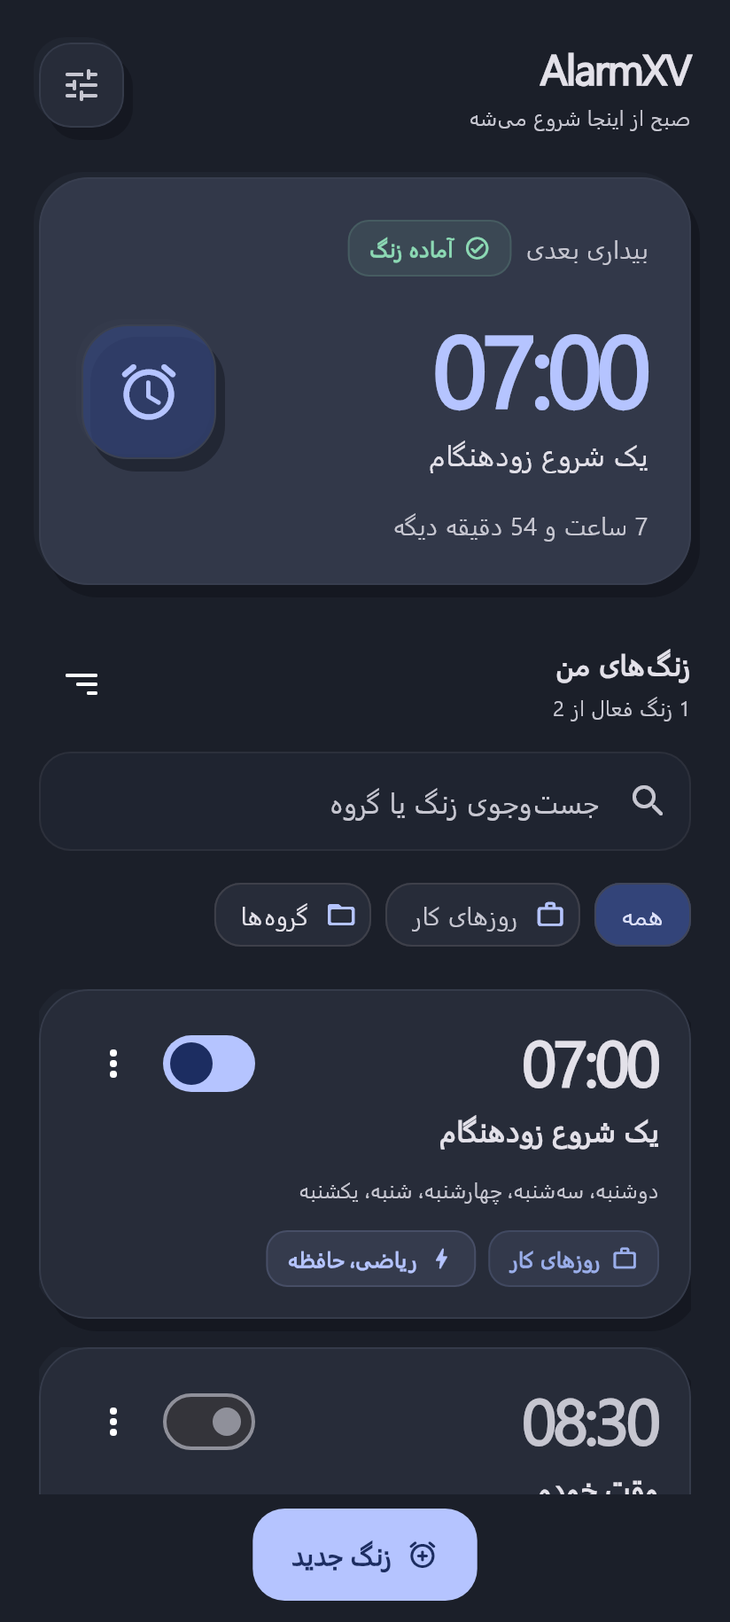
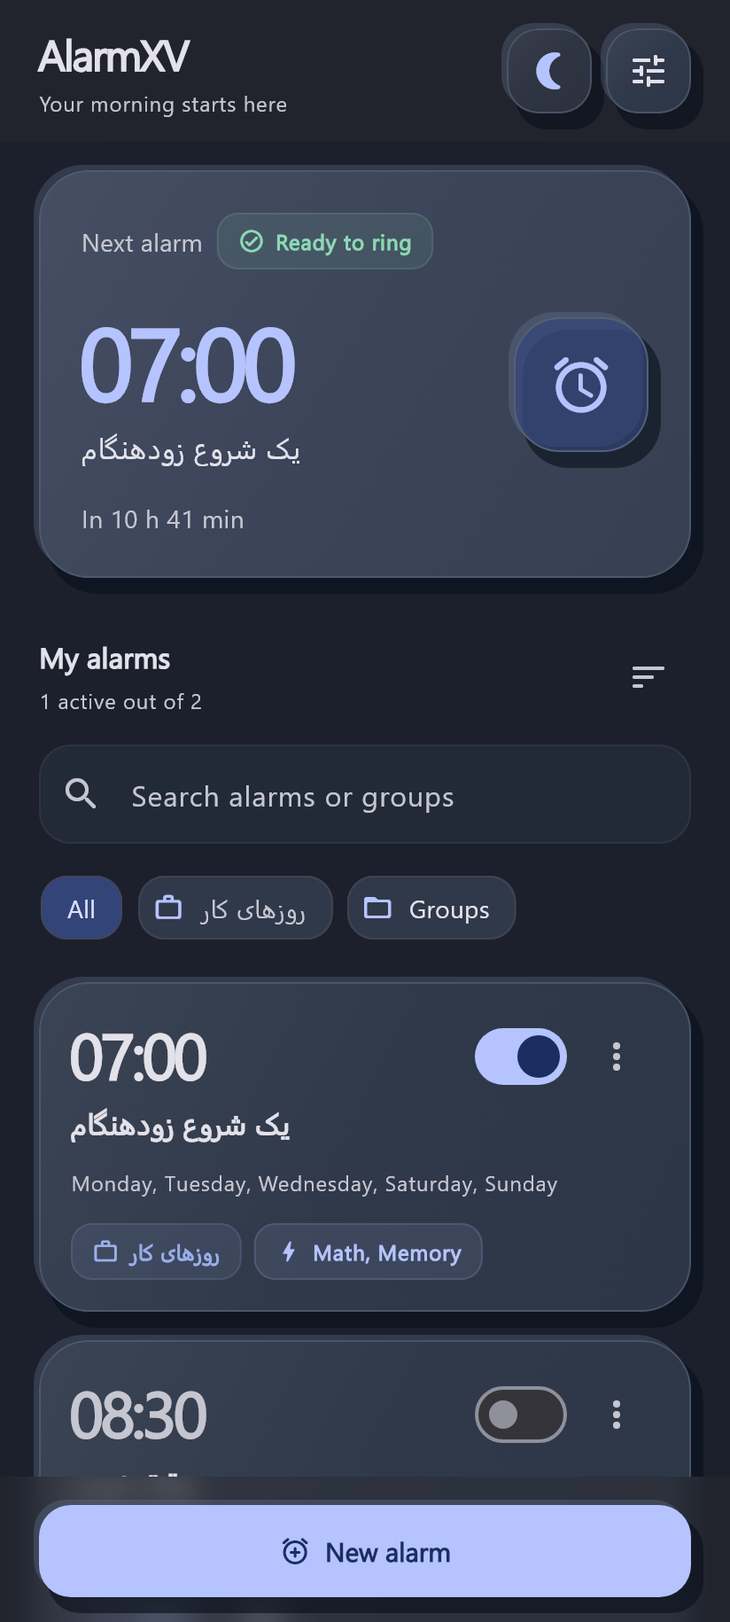
docs: prepare bilingual public preview release and refreshed project homepage

diff --git a/README.md b/README.md
@@ -1,97 +1,104 @@
 <div align="center">
 
+<img src="android/app/src/main/res/mipmap-xxxhdpi/ic_launcher.png" width="88" alt="AlarmXV" />
+
 # AlarmXV
 
-### A better morning starts with actually waking up.
-### صبح خوب، با واقعاً بیدارشدن شروع میشود.
+### صبح از اینجا شروع میشه · Your morning starts here
 
-An Android alarm clock for heavy sleepers — local alarms, wake-up missions, and a little persistence.
+An open-source Android alarm clock with wake-up missions, Clay surfaces and Persian/English support.
 
-[Download / دانلود](https://github.com/bardia-us/AlarmXV/releases/latest) · [What’s new / تغییرات](CHANGELOG.md) · [Report a bug / گزارش مشکل](https://github.com/bardia-us/AlarmXV/issues)
+[**Download preview · دانلود پیشنمایش**](https://github.com/bardia-us/AlarmXV/releases/tag/v2.0.0-preview.3) · [Stable 1.2.0](https://github.com/bardia-us/AlarmXV/releases/latest) · [Changelog](CHANGELOG.md) · [Issues](https://github.com/bardia-us/AlarmXV/issues)
+
+**2.0.0-preview.3** · Flutter + Kotlin · Android · [GPL-3.0](LICENSE)
+
+<img src="docs/alarmxv-light.png" width="240" alt="Persian alarm list in light mode" />
+&nbsp;
+<img src="docs/alarmxv-dark.png" width="240" alt="English alarm list in dark mode" />
+
+<sub>Sample alarms · زنگهای نمونه؛ اطلاعات واقعی کاربران نیست</sub>
 
 </div>
 
-<div align="center">
-<img src="docs/alarmxv-light.png" width="230" alt="AlarmXV preview in light mode" />
-&nbsp;&nbsp;
-<img src="docs/alarmxv-dark.png" width="230" alt="AlarmXV preview in dark mode" />
-<p><sub>Design preview · نمونهٔ زبان طراحی؛ نسخهٔ جدید هنوز منتشر نشده</sub></p>
-</div>
+## دانلود · Download
 
----
+**2.0.0-preview.3** یک پیشانتشار عمومی است. نسخهٔ پایدار فعلی **1.2.0** باقی میماند.
+
+**2.0.0-preview.3 is a public pre-release.** Version **1.2.0** remains the stable release.
+
+| APK | مناسب برای · Best for | Size |
+|---|---|---:|
+| [ARM64 · v8a](https://github.com/bardia-us/AlarmXV/releases/download/v2.0.0-preview.3/AlarmXV-2.0.0-preview.3-arm64-v8a.apk) | بیشتر گوشیهای جدید · Most modern phones | 18.1 MiB |
+| [ARMv7 · v7a](https://github.com/bardia-us/AlarmXV/releases/download/v2.0.0-preview.3/AlarmXV-2.0.0-preview.3-armeabi-v7a.apk) | گوشیهای قدیمی ۳۲ بیتی · Older 32-bit ARM phones | 15.7 MiB |
+| [Universal](https://github.com/bardia-us/AlarmXV/releases/download/v2.0.0-preview.3/AlarmXV-2.0.0-preview.3-universal.apk) | اگر مطمئن نیستی · When unsure | 52.3 MiB |
+
+[SHA256 checksums · صحت فایلها](https://github.com/bardia-us/AlarmXV/releases/download/v2.0.0-preview.3/SHA256SUMS.txt)
+
+فقط یکی از APKها را نصب کن. امضای قبلی AlarmXV حفظ شده؛ برای آپدیت نیازی به حذف برنامه نیست.
+
+Install only one APK. All files retain the existing signing identity and support installation over the previous version.
 
 ## فارسی
 
-AlarmXV برای وقتی ساخته شده که دکمهٔ خاموشکردن آلارم، زیادی راحت است. زنگ را تنظیم کن، مأموریت بیدارشدن را انتخاب کن و اگر خواستی، از بررسی بیداری کمک بگیر تا دوباره نخوابی.
+AlarmXV برای صبحهایی ساخته شده که خاموشکردن آلارم، زیادی راحته. زمان بیداری رو انتخاب کن، زنگهات رو مرتب کن و با یک زنگ عادی یا انجام مأموریت بیدار شو.
 
-### نسخهٔ منتشرشده — 1.2.0
+- **دو روش بیدارشدن:** زنگ عادی با قطع مستقیم و صدای قابل تنظیم، یا بیداری مأموریتی با ریاضی، حافظه، تکاندادن، تایپ و ترتیب اعداد.
+- **آلارمهای مرتب:** گروه با نام، رنگ و آیکون، جستوجو، تکثیر، تکرار هفتگی و شمارش زمان تا آلارم بعدی.
+- **ظاهر یکپارچه:** طراحی Clay، نوارها و منوهای Frosted، تم روشن/تیره/سیستم، هشت رنگ و دکمهٔ متحرک ماه و خورشید.
+- **دو زبان:** فارسی و انگلیسی با پیشفرض زبان سیستم و انتخاب دستی در تنظیمات؛ جهت مناسب RTL/LTR.
+- **کنترل بیداری:** صدای گوشی، Snooze، مأموریتهای قابل تنظیم و بررسی بیصدای بیداری با فرصت تأیید ۶۰ ثانیهای.
+- **محلی و متنباز:** بدون حساب کاربری؛ آلارمها روی گوشی میمونن و بررسی آپدیت فقط با درخواست خودت انجام میشه.
 
-- زنگ دقیق هفتگی با موتور Native Android و بازیابی بعد از راهاندازی مجدد گوشی.
-- صفحهٔ زنگ روی قفل گوشی، پخش تکرارشوندهٔ صدا و لرزش.
-- مأموریتهای ریاضی، حافظه و تکاندادن گوشی.
-- Snooze و بررسی بیصدای بیداری با فرصت تأیید ۶۰ ثانیهای.
-- انتخاب صدا از صداهای خود گوشی؛ نگهداری آلارمها بهصورت محلی.
+دسترسیهای آلارم دقیق، اعلان و نمایش روی قفل رو طبق راهنمای داخل اپ فعال کن. محدودیتهای Android و سازنده، از جمله Force stop، میتونن اجرای آلارم رو متوقف کنن.
 
-### در حال توسعه — 2.0 Preview
+### وضعیت پیشنمایش
 
-طراحی Clay با عمق نرم، تم روشن/تیره/سیستم و هشت رنگ قابل انتخاب؛ گروههای آلارم، جستوجو، تکثیر، تنظیم سختی مأموریتها، تایپ و ترتیب اعداد. نمایش تازههای نسخه و بررسی دستی آپدیت هم بخشی از این بازطراحی است.
+تحلیل ایستا، **۳۹ تست Flutter** و **۱۵ تست Native/پیکربندی** موفق بودن. ظاهر، اسکرول، منوها و دو زبان با fixtureهای Flutter بررسی شدن؛ APK نهایی هم بهصورت آپدیت روی Galaxy A34 نصب شد. تست کامل زنگ/مأموریت روی گوشی و اندازهگیری جدید FPS انجام نشده. مشکل مقطعی دو پنجره بازتولید نشد؛ مسیر ورود مجدد اصلاح شده و تأیید نهایی دستگاه باقیه.
 
-دو حالت جدا داری: «زنگ عادی» برای قطع مستقیم و صدای قابل تنظیم، و «بیداری مأموریتی» برای وقتی که میخواهی با حل مأموریت بیدار بمانی. حالت عادی صدای گوشی را به حداکثر قفل نمیکند و بررسی اجباری بیداری ندارد.
-
-تغییر روشن/تیره با دکمهٔ ماه و خورشید بالای صفحه انجام میشود؛ پیشفرض از سیستم پیروی میکند. نوار ناوبری Android در دسترس میماند و منوها و دکمههای پایین از شکل و عمق مشترک Clay استفاده میکنند.
-
-در preview3 نوارهای ثابت و منوها از Frosted translucency با پسزمینهٔ واقعی و متن واضح استفاده میکنند. فارسی و انگلیسی هم با پیشفرض زبان سیستم و انتخاب دستی در تنظیمات در دسترساند. [گزارش بررسی ظاهر](docs/qa/FROSTED_UI.md) نتیجهٔ تست محلی را از اندازهگیری واقعی گوشی جدا میکند.
-
-این پیشنمایش هنوز انتشار عمومی نیست. [وضعیت بررسی و تستها](docs/qa/STATUS.md) محدودیتها و نتیجهٔ واقعی هر مرحله را ثبت میکند؛ نسخهٔ پایدار فعلی همان 1.2.0 است.
-
-### کدام فایل دانلود؟
-
-| فایل | مناسب برای |
-|---|---|
-| `arm64-v8a` | بیشتر گوشیهای جدید اندرویدی |
-| `armeabi-v7a` | گوشیهای قدیمی ۳۲ بیتی |
-| `universal`، اگر در نسخه موجود باشد | همهٔ معماریهای پشتیبانیشده، با حجم بیشتر |
-
-دسترسیهای «آلارم دقیق»، «اعلان»، «نمایش تمامصفحه» و «نمایش روی برنامهها» را در صورت درخواست داخل اپ فعال کن. رفتار روی قفل و در پسزمینه به نسخهٔ Android و محدودیتهای سازنده هم بستگی دارد. Force stop از تنظیمات سیستم میتواند اجرای آلارمها را متوقف کند.
+[تغییرات هر نسخه](CHANGELOG.md) · [گزارش بررسی و محدودیتها](docs/qa/FROSTED_UI.md)
 
 ## English
 
-AlarmXV helps you stay awake after your alarm. Set a weekly alarm, choose a wake-up mission, and optionally enable a silent follow-up check.
+AlarmXV is for mornings when dismissing an alarm is too easy. Choose a normal alarm with direct dismissal, or wake up by completing a mission.
 
-### Published — 1.2.0
+- **Wake up your way:** configurable Math, Memory, Shake, Typing and Number Order, with sequential missions.
+- **Stay organized:** named and colored groups, search, duplication, weekly repeats and a next-alarm countdown.
+- **Make it yours:** soft Clay depth, frosted chrome and menus, light/dark/system themes, eight accents and an animated sun/moon control.
+- **Two languages:** system-default Persian/English, a manual language setting and proper RTL/LTR layouts.
+- **Useful controls:** system sounds, adjustable normal-alarm volume, snooze and a silent Wake-up Checker with a 60-second confirmation window.
+- **Local and open source:** no account required. Alarm data stays on your phone; update checks happen only when requested.
 
-- Native Android exact alarms, weekly repeats and reboot rescheduling.
-- Lock-screen ringing, looping sound and vibration.
-- Math, Memory and Shake missions.
-- Per-alarm snooze and a silent Wake-up Checker with a 60-second response window.
-- System sound picker and local alarm storage, with no account required.
+### Preview status
 
-### In development — 2.0 Preview
+Static analysis, **39 Flutter tests** and **15 Native/configuration tests** passed. Host-rendered fixtures cover themes, menus, scrolling and localization. The signed APK was installed as an update on a Galaxy A34. A fresh end-to-end device alarm/mission cycle and frame-pacing measurement have not been performed. The intermittent duplicate-window report was not reproduced; launcher re-entry was corrected, with final device confirmation pending.
 
-A coherent soft-depth Clay interface; light, dark and system themes; eight accents; alarm groups; search and duplication; configurable missions; typing and number ordering; in-app release notes and an on-demand update check.
+[Full changelog](CHANGELOG.md) · [Verification details and limits](docs/qa/FROSTED_UI.md)
 
-Choose **Normal alarm** for direct dismissal and freely adjustable system/custom volume, or **Mission alarm** for the stricter wake-up flow. Normal alarms do not enforce maximum volume or mandatory wake checks.
+<details>
+<summary>More previews · تصاویر بیشتر</summary>
 
-The animated moon/sun control switches appearance while system following remains the default. Android navigation stays available; rounded menus and floating action edges share the same Clay surfaces.
+<p align="center">
+<img src="docs/alarmxv-settings.png" width="240" alt="English appearance settings" />
+&nbsp;
+<img src="docs/alarmxv-editor.png" width="240" alt="Persian alarm editor with frosted action footer" />
+</p>
 
-Preview3 adds real frosted backdrops to fixed chrome and menus, plus system-default Persian/English with an in-app language choice. The [visual verification report](docs/qa/FROSTED_UI.md) distinguishes host rendering checks from real-device performance measurements.
-
-The preview is not a public release. See the [QA status](docs/qa/STATUS.md) for completed checks and device-test limitations. Version 1.2.0 remains the current public release.
-
-For downloads, choose **arm64-v8a** for most modern phones, **armeabi-v7a** for older 32-bit phones, or **universal** when offered. Enable the Android alarm and notification access requested in the app. Lock-screen delivery depends on Android and manufacturer restrictions; a system Force stop can prevent alarms from running.
+</details>
 
 ## Privacy · حریم خصوصی
 
-Alarm data and preferences stay on the device. The preview contacts GitHub only when you tap **Check for updates**; it opens a compatible APK in your browser and does not install updates silently. No camera or microphone access is used.
+Alarm data and preferences stay on the device. The app contacts GitHub only when you request a stable-update check. Downloads open in your browser; updates are not installed silently. No camera or microphone permission is used.
+
+آلارمها و تنظیمات روی گوشی ذخیره میشن؛ بررسی نسخهٔ پایدار جدید فقط با درخواست تو انجام میشه و دانلود از مرورگر ادامه پیدا میکنه.
 
 ## Contribute · مشارکت
 
-Licensed under [GNU GPL v3.0](LICENSE). کد این پروژه با مجوز GPL-3.0 منتشر میشود.
+Found a bug or have an idea? [Open an issue](https://github.com/bardia-us/AlarmXV/issues) with your app version, phone model, Android version and steps to reproduce it. Leave out private alarm data, passwords and signing keys.
 
-Found a problem? [Open an issue](https://github.com/bardia-us/AlarmXV/issues) with the app version, phone model, Android version and steps to reproduce it. Do not attach passwords, private signing keys or personal alarm data.
+مشکل یا پیشنهادی داری؟ نسخهٔ اپ، مدل گوشی، نسخهٔ Android و روش تکرار مشکل رو در [Issues](https://github.com/bardia-us/AlarmXV/issues) بنویس. مشارکت در طراحی، ترجمه، دسترسپذیری و بررسی باگها خوشآمده.
 
-مشکلی دیدی؟ نسخهٔ اپ، مدل گوشی، نسخهٔ Android و روش تکرار مشکل را در [Issues](https://github.com/bardia-us/AlarmXV/issues) بنویس. پیشنهاد و مشارکت در طراحی، دسترسپذیری و تست هم خوشآمد است.
+Licensed under [GNU GPL v3.0](LICENSE). کد پروژه با مجوز GPL-3.0 منتشر میشود.
 
 ---
 
-Built with Flutter + native Android. مستقل از Alarmy؛ از نام، کد یا داراییهای اختصاصی آن استفاده نمیکند.
+Built with Flutter + native Android. Independent of Alarmy; no proprietary code, branding or assets are used.

diff --git a/RELEASE_NOTES.md b/RELEASE_NOTES.md
@@ -1,19 +1,51 @@
-# AlarmXV 1.2.0
+# AlarmXV 2.0.0-preview.3
 
-This release focuses on Wake-up Checker reliability and Android distribution.
+**Public pre-release · پیشانتشار عمومی**
 
-## Highlights
+## فارسی
 
-- Silent full-screen «هنوز بیداری؟» screen with a 60-second countdown.
-- Fixes repeated Wake-up Checker cycles when only one check was configured.
-- Keeps the Wake-up Checker dismissible while its silent notification remains.
-- Moves the large ringing clock down for better spacing on edge-to-edge screens.
-- Includes separately signed APKs for ARM64, ARMv7, and x86_64 devices.
+یک جهش نسبت به 1.2.0: ظاهر یکپارچهٔ Clay، نوارها و منوهای Frosted و تجربهٔ فارسی/انگلیسی.
 
-## Which APK should I install?
+- تم روشن، تیره و خودکار؛ هشت رنگ و دکمهٔ متحرک ماه و خورشید.
+- گروهها، جستوجو، تکثیر و نمایش زمان باقیمانده تا آلارم بعدی.
+- دو حالت جدا: زنگ عادی با قطع مستقیم و صدای آزاد، یا بیداری مأموریتی.
+- تنظیم سختی ریاضی، حافظه و تکاندادن؛ تایپ، ترتیب اعداد و مأموریتهای متوالی.
+- فارسی و انگلیسی با پیشفرض سیستم، شامل صفحهٔ زنگ، مأموریت و بررسی بیداری.
+- شفافیت واقعی نوارها، منوهای گرد، اصلاح هالهٔ کارت و بک کشسان.
+- اصلاح ورود مجدد از آیکون و لینک ساعت Android با حفظ جلسهٔ فعال و زمان مأموریت.
+- تازههای نصب و بررسی دستی نسخهٔ پایدار جدید با پیشنهاد APK مناسب گوشی.
 
-- `arm64-v8a`: most modern Android phones and tablets.
-- `armeabi-v7a`: older 32-bit ARM devices.
-- `x86_64`: Android emulators and uncommon Intel-based devices.
+### دانلود و آپدیت
 
-All APKs are signed with the same AlarmXV release certificate.
+| فایل | مناسب برای |
+|---|---|
+| **arm64-v8a** | بیشتر گوشیهای جدید، از جمله Galaxy A34 |
+| **armeabi-v7a** | گوشیهای قدیمی ۳۲ بیتی ARM |
+| **universal** | اگر از معماری مطمئن نیستی؛ حجم بیشتر |
+
+فقط یکی از APKها رو نصب کن. همه با امضای قبلی AlarmXV و کد 5006 هستن؛ برای آپدیت نیازی به حذف برنامه نیست. فایل **SHA256SUMS.txt** برای بررسی صحت دانلود ضمیمه شده.
+
+### نتیجهٔ بررسی
+
+`flutter analyze` بدون ایراد؛ **۳۹ تست Flutter** و **۱۵ تست Native/پیکربندی** موفق. رندر Flutter برای تمها، اسکرول، منوها و دو زبان بررسی شد. APK امضاشده بهصورت آپدیت روی Galaxy A34 نصب شد؛ تست روی گوشی به درخواست مالک با خود اوست.
+
+چرخهٔ کامل زنگ/مأموریت روی گوشی و اندازهگیری جدید FPS انجام نشده. مشکل مقطعی دو پنجره بازتولید نشد؛ مسیر ورود مجدد اصلاح شده و تأیید نهایی دستگاه باقیه. ادعای ۱۲۰ فریم ثابت نداریم. قبل از استفادهٔ روزانه یک زنگ آزمایشی با تنظیمات خودت امتحان کن.
+
+## English
+
+A substantial step beyond 1.2.0: a coherent Clay interface, frosted chrome and menus, and Persian/English throughout the app.
+
+- Light, dark and system themes, eight accents and an animated sun/moon control.
+- Alarm groups, search, duplication and a next-alarm countdown.
+- Separate Normal and Mission modes: direct dismissal/free volume, or configurable wake-up missions.
+- Adjustable Math, Memory and Shake, plus Typing, Number Order and sequential missions.
+- System-default Persian/English, including native ringing, mission and wake-check screens.
+- Live clipped backdrop blur, rounded controls, corrected card shadows and an elastic Back button.
+- Launcher/Android clock-link re-entry preserves the active session and mission deadline.
+- In-app release notes and an on-demand stable-update check with architecture-aware browser downloads.
+
+**Downloads:** choose **arm64-v8a** for most modern phones, **armeabi-v7a** for older 32-bit ARM devices, or **universal** when unsure. Install only one APK. All retain the existing signature and use versionCode 5006, allowing an in-place upgrade. SHA256 checksums are attached.
+
+**Verification:** analyzer clean; 39 Flutter tests and 15 Native/configuration tests passed. Host-rendered fixtures cover themes, scrolling, menus and localization. The signed APK was installed as an update on a Galaxy A34. Phone testing is being handled by the owner: no fresh full alarm/mission-cycle or frame-pacing result is claimed. The intermittent duplicate-window report was not reproduced; launcher re-entry was corrected, with final device confirmation pending. This pre-release does not claim sustained 120 FPS; try a test alarm with your configuration before daily use.
+
+[Source](https://github.com/bardia-us/AlarmXV) · [GPL-3.0](https://github.com/bardia-us/AlarmXV/blob/main/LICENSE) · [Changelog](https://github.com/bardia-us/AlarmXV/blob/main/CHANGELOG.md) · [Verification details](https://github.com/bardia-us/AlarmXV/blob/main/docs/qa/FROSTED_UI.md)

diff --git a/CHANGELOG.md b/CHANGELOG.md
@@ -1,6 +1,6 @@
 # Changelog
 
-## 2.0.0-preview.3+5006 — Private preview / پیشنمایش خصوصی
+## 2.0.0-preview.3+5006 — Public pre-release / پیشانتشار عمومی
 
 ### فارسی
 - اصلاح مسیر ورود مجدد از آیکون برنامه و لینک ساعت اندروید: صفحهٔ فعال زنگ بیدلیل بسته و دوباره ساخته نمیشود؛ جلسه و مهلت مأموریت حفظ میشود.
@@ -8,7 +8,7 @@
 - منوهای بازشونده و انتخابگرها متریال Frosted یکپارچه و گذار مشترک سطح/محتوا دارند؛ کاهش افکت و کنتراست بالا از سطح مات استفاده میکنند.
 - اصلاح بریدگی مستطیلی سایهٔ کارت آلارم پس از پایان انیمیشن و گوشههای انتخاب ساعت؛ دکمهٔ برگشت گرد با کشش ملایم.
 - فارسی و انگلیسی در رابط Flutter، زنگ Native، مأموریتها و بررسی بیداری؛ پیشفرض زبان سیستم و انتخاب دستی در تنظیمات، بدون تغییر نامها و عبارتهای ذخیرهشدهٔ کاربر.
-- نسخه و تازههای نصب بهروز شدند. شواهد تست و محدودیت عملکرد در docs/qa/FROSTED_UI.md ثبت میشود؛ انتشار عمومی انجام نشده است.
+- نسخه و تازههای نصب بهروز شدند. شواهد تست و محدودیت عملکرد در docs/qa/FROSTED_UI.md ثبت شده؛ این نسخه با برچسب Pre-release منتشر میشود.
 
 ### English
 - Normalize launcher/AlarmClockInfo entry and retain the active alarm screen/session when reopening the app; avoid clearing the native screen above Main.
@@ -16,7 +16,7 @@
 - Unified frosted popup/selection panels with one material/content transition and opaque reduced-effects/high-contrast fallback.
 - Removed settled list-animation clipping of rounded alarm-card shadows; rounded time selections and an elastic Back button.
 - System-default Persian/English, with a persisted manual preference across Flutter and native alarm/mission/wake-check interfaces. User labels and typing phrases remain unchanged.
-- Updated version and in-app release notes. Verification evidence and performance limits are recorded separately; no public Release.
+- Updated version and in-app release notes. Verification evidence and performance limits are recorded separately; distributed as a public pre-release.
 
 ## 2.0.0-preview.2+5005 — Private preview / پیشنمایش خصوصی
 

diff --git a/docs/WORKLOG.md b/docs/WORKLOG.md
@@ -123,3 +123,10 @@
 - Auto-review rejected KEYCODE_WAKEUP because of the prior stop-device-testing instruction; the command was not executed and no workaround attempted. User then explicitly said: install only, they will test on the phone. This is the current device interaction boundary.
 - Ran only adb install --user 0 -r for the final ARM64 Release; Success. Read-only package verification shows2.0.0-preview.3/code5006, user0 installed, unchanged CE/DE data inodes; no package listed for DUAL_APP user95. No uninstall/data clear, screen wake, post-install UI interaction, alarm trigger or FPS test.
 - Local final artifacts retained; no public GitHub Release/tag or merge into main. Current source and documentation checkpoint is backed up on redesign/clay-v2.
+
+## Checkpoint14 — owner authorized public GitHub pre-release, 2026-10-26
+
+- Owner explicitly requested putting the finished work on GitHub with a clean presentation. Publish2.0.0-preview.3 as a public pre-release, keep1.2.0 as stable/latest, promote the matching source to main and attach only the three verified APKs plus SHA256SUMS. No additional tests, builds or phone interaction requested or needed; app sources/artifacts remain those already verified and installed.
+- Refreshed bilingual homepage with current sample-only screenshots, direct architecture download table, features, GPL/license/privacy links and honest verification limits. Replaced stale1.2 RELEASE_NOTES.md with bilingual preview3 notes; no build instructions in the homepage.
+- Removed obsolete tag-push publisher: it uploaded tracked1.2 release-assets for every tag. Publication now uses GitHub CLI with explicit verified local dist/2.0.0-preview.3 assets, staged as a draft before publication. No signing material or real device screenshots included.
+- GitHub connector has no Release/asset publication capability; GitHub CLI authenticated to the same owned public repository is the fallback. Existing main=f10f82d; source backup branch=redesign/clay-v2. Final publication result is recorded after API verification.

diff --git a/docs/qa/RELEASE_APKS.md b/docs/qa/RELEASE_APKS.md
@@ -1,4 +1,4 @@
-# Private preview APK evidence
+# Preview APK evidence
 
 ## Preview3 — final source checkpoint bca8b4f
 
@@ -10,7 +10,7 @@ Version2.0.0-preview.3+5006, Flutter3.47.8/Dart3.13.7. Final rebuild includes re
 | armeabi-v7a |16,501,137|d517e14097656ee23b30cd81ebe6b1b3dc4bb3b2110797289d75fd9185615150|
 | universal |54,881,635|755e0dd94ba0254b3d8b8bb8cf979c178c56a8e5f0f8263d68ee61b76e839214|
 
-Location: local dist/2.0.0-preview.3, with SHA256SUMS.txt. No public Release. On2026-10-26 the owner explicitly requested installation only and reserved phone testing for themselves. ARM64 installed successfully with adb install --user 0 -r; read-only package metadata confirms preview3/code5006 and the same CE/DE data inode values. No Dual App installation, uninstall or data clearing. No post-install UI/alarm/FPS test.
+Location: local dist/2.0.0-preview.3, with SHA256SUMS.txt; public pre-release publication later authorized for [v2.0.0-preview.3](https://github.com/bardia-us/AlarmXV/releases/tag/v2.0.0-preview.3). On2026-10-26 the owner explicitly requested installation only and reserved phone testing for themselves. ARM64 installed successfully with adb install --user 0 -r; read-only package metadata confirms preview3/code5006 and the same CE/DE data inode values. No Dual App installation, uninstall or data clearing. No post-install UI/alarm/FPS test.
 
 ## Historical preview2
 

diff --git a/docs/qa/STATUS.md b/docs/qa/STATUS.md
@@ -1,6 +1,6 @@
 # Preview verification status / وضعیت بررسی پیشنمایش
 
-Latest development target: **2.0.0-preview.3+5006**. See [Frosted UI/localization verification](FROSTED_UI.md): analyzer clean,39Flutter tests passed,15Native unit/configuration tests passed, explicit visual fixtures passed. This does not establish real-device frame pacing. All three signed Release APKs built; ARM64 installed successfully on user0 at the owner's explicit install-only request on2026-10-26. No subsequent phone UI/alarm test or public Release. See [APK evidence](RELEASE_APKS.md).
+Current pre-release: **2.0.0-preview.3+5006**. See [Frosted UI/localization verification](FROSTED_UI.md): analyzer clean,39Flutter tests passed,15Native unit/configuration tests passed, explicit visual fixtures passed. This does not establish real-device frame pacing. All three signed Release APKs built; ARM64 installed successfully on user0 at the owner's explicit install-only request on2026-10-26. No subsequent phone UI/alarm test. The owner then authorized GitHub publication as a public pre-release; stable1.2.0 is unchanged. See [APK evidence](RELEASE_APKS.md) and the [release page](https://github.com/bardia-us/AlarmXV/releases/tag/v2.0.0-preview.3).
 
 ## Historical preview2 evidence
 
